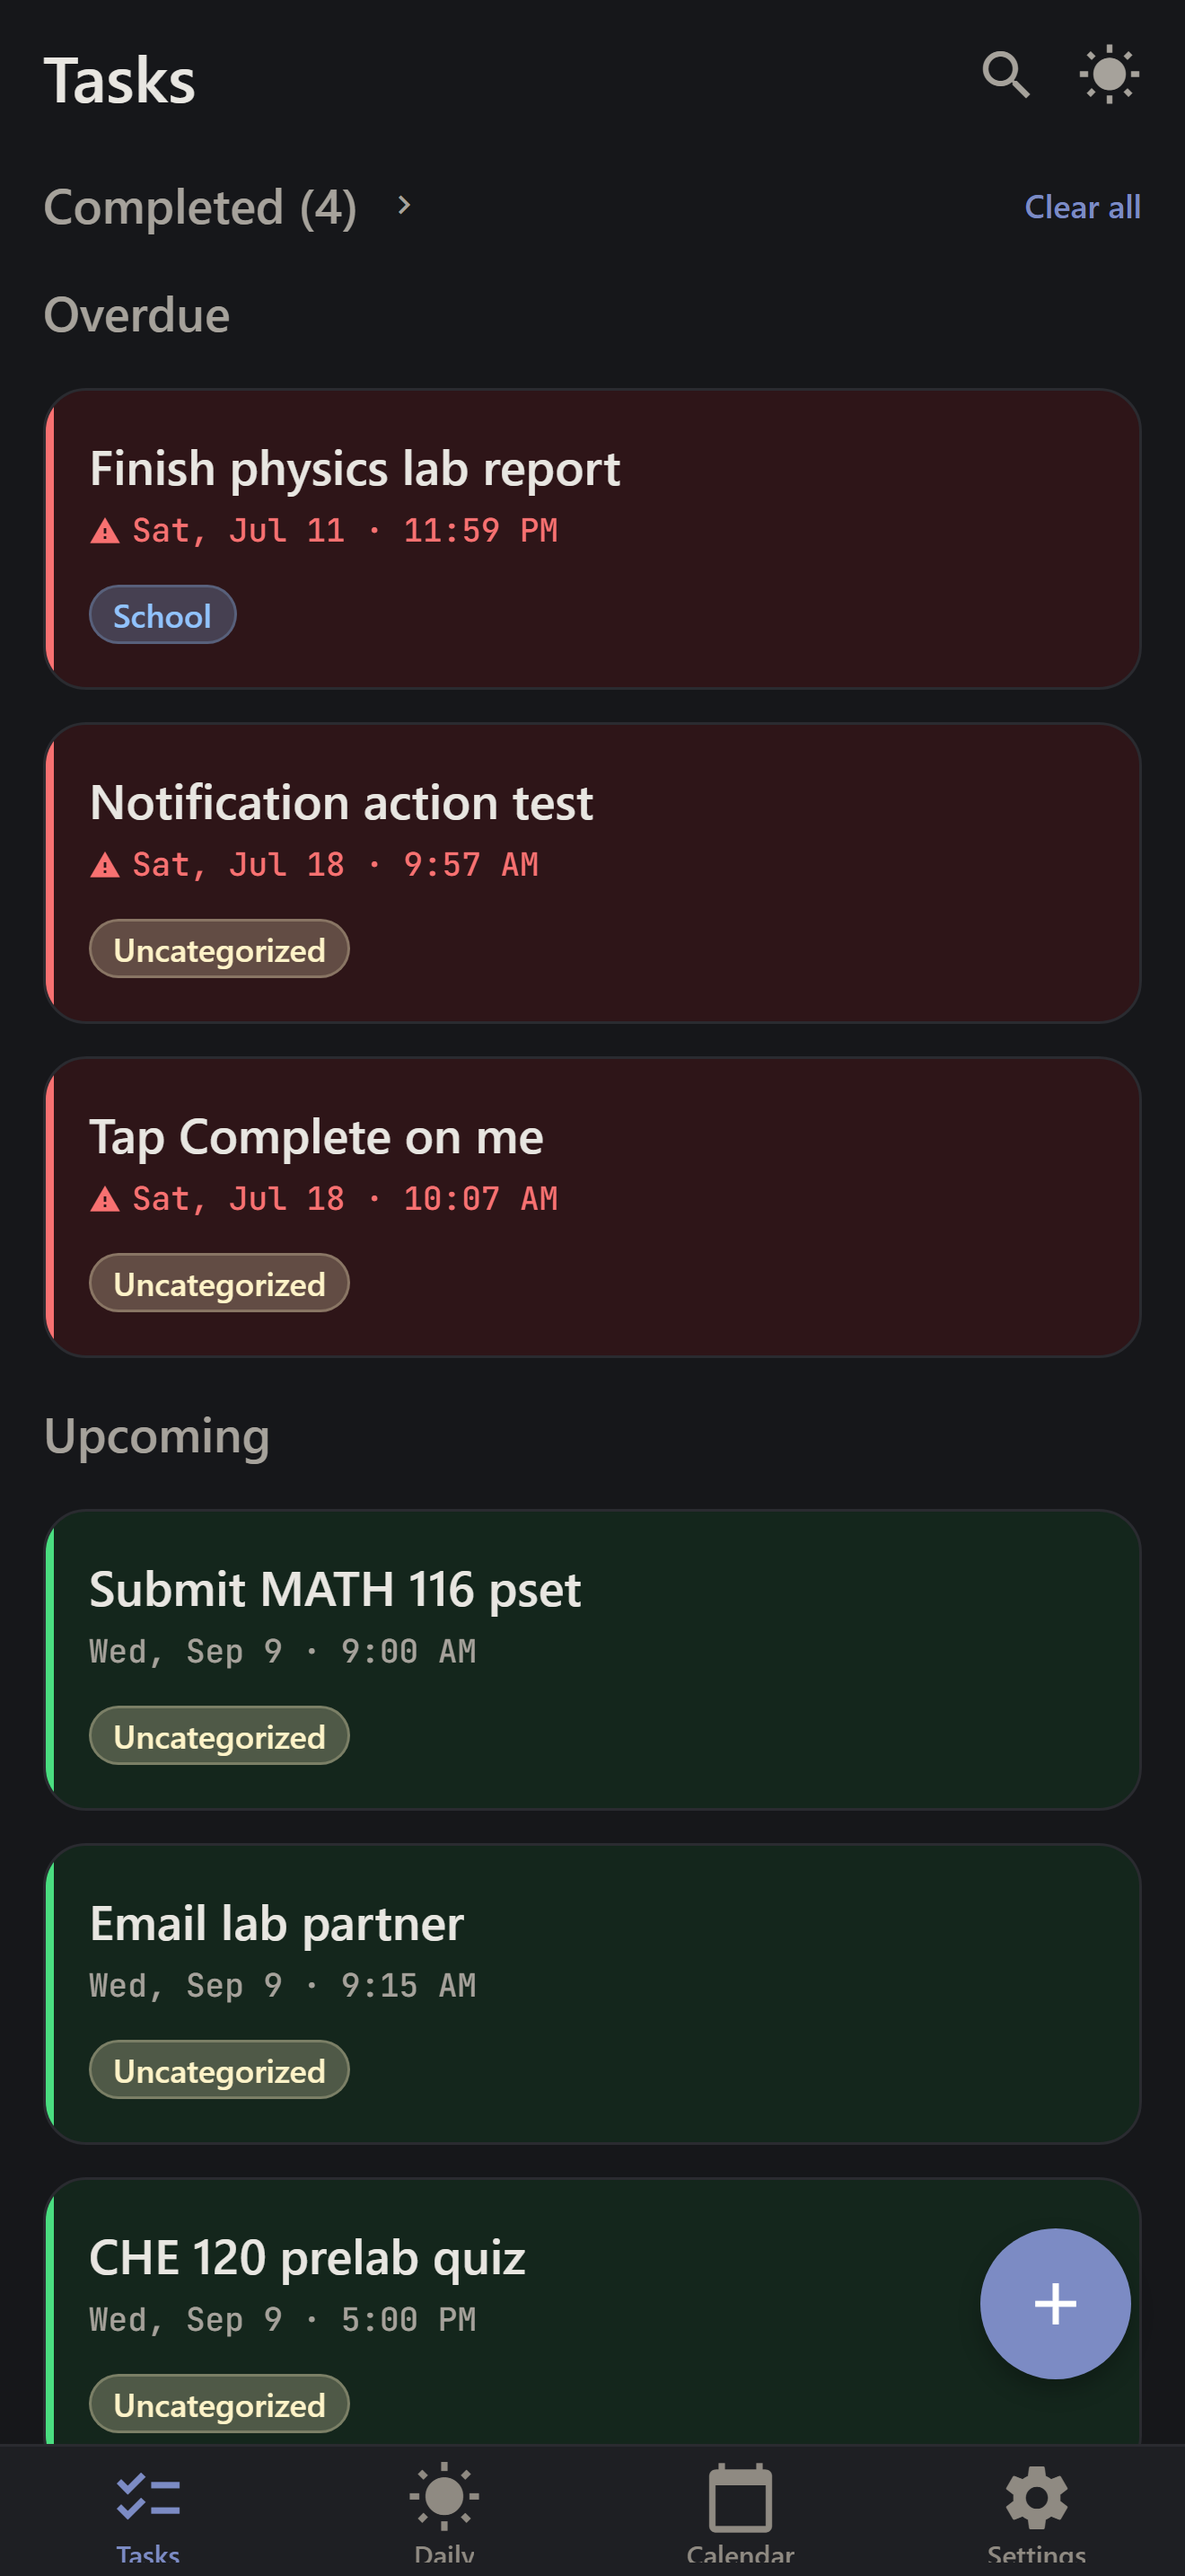
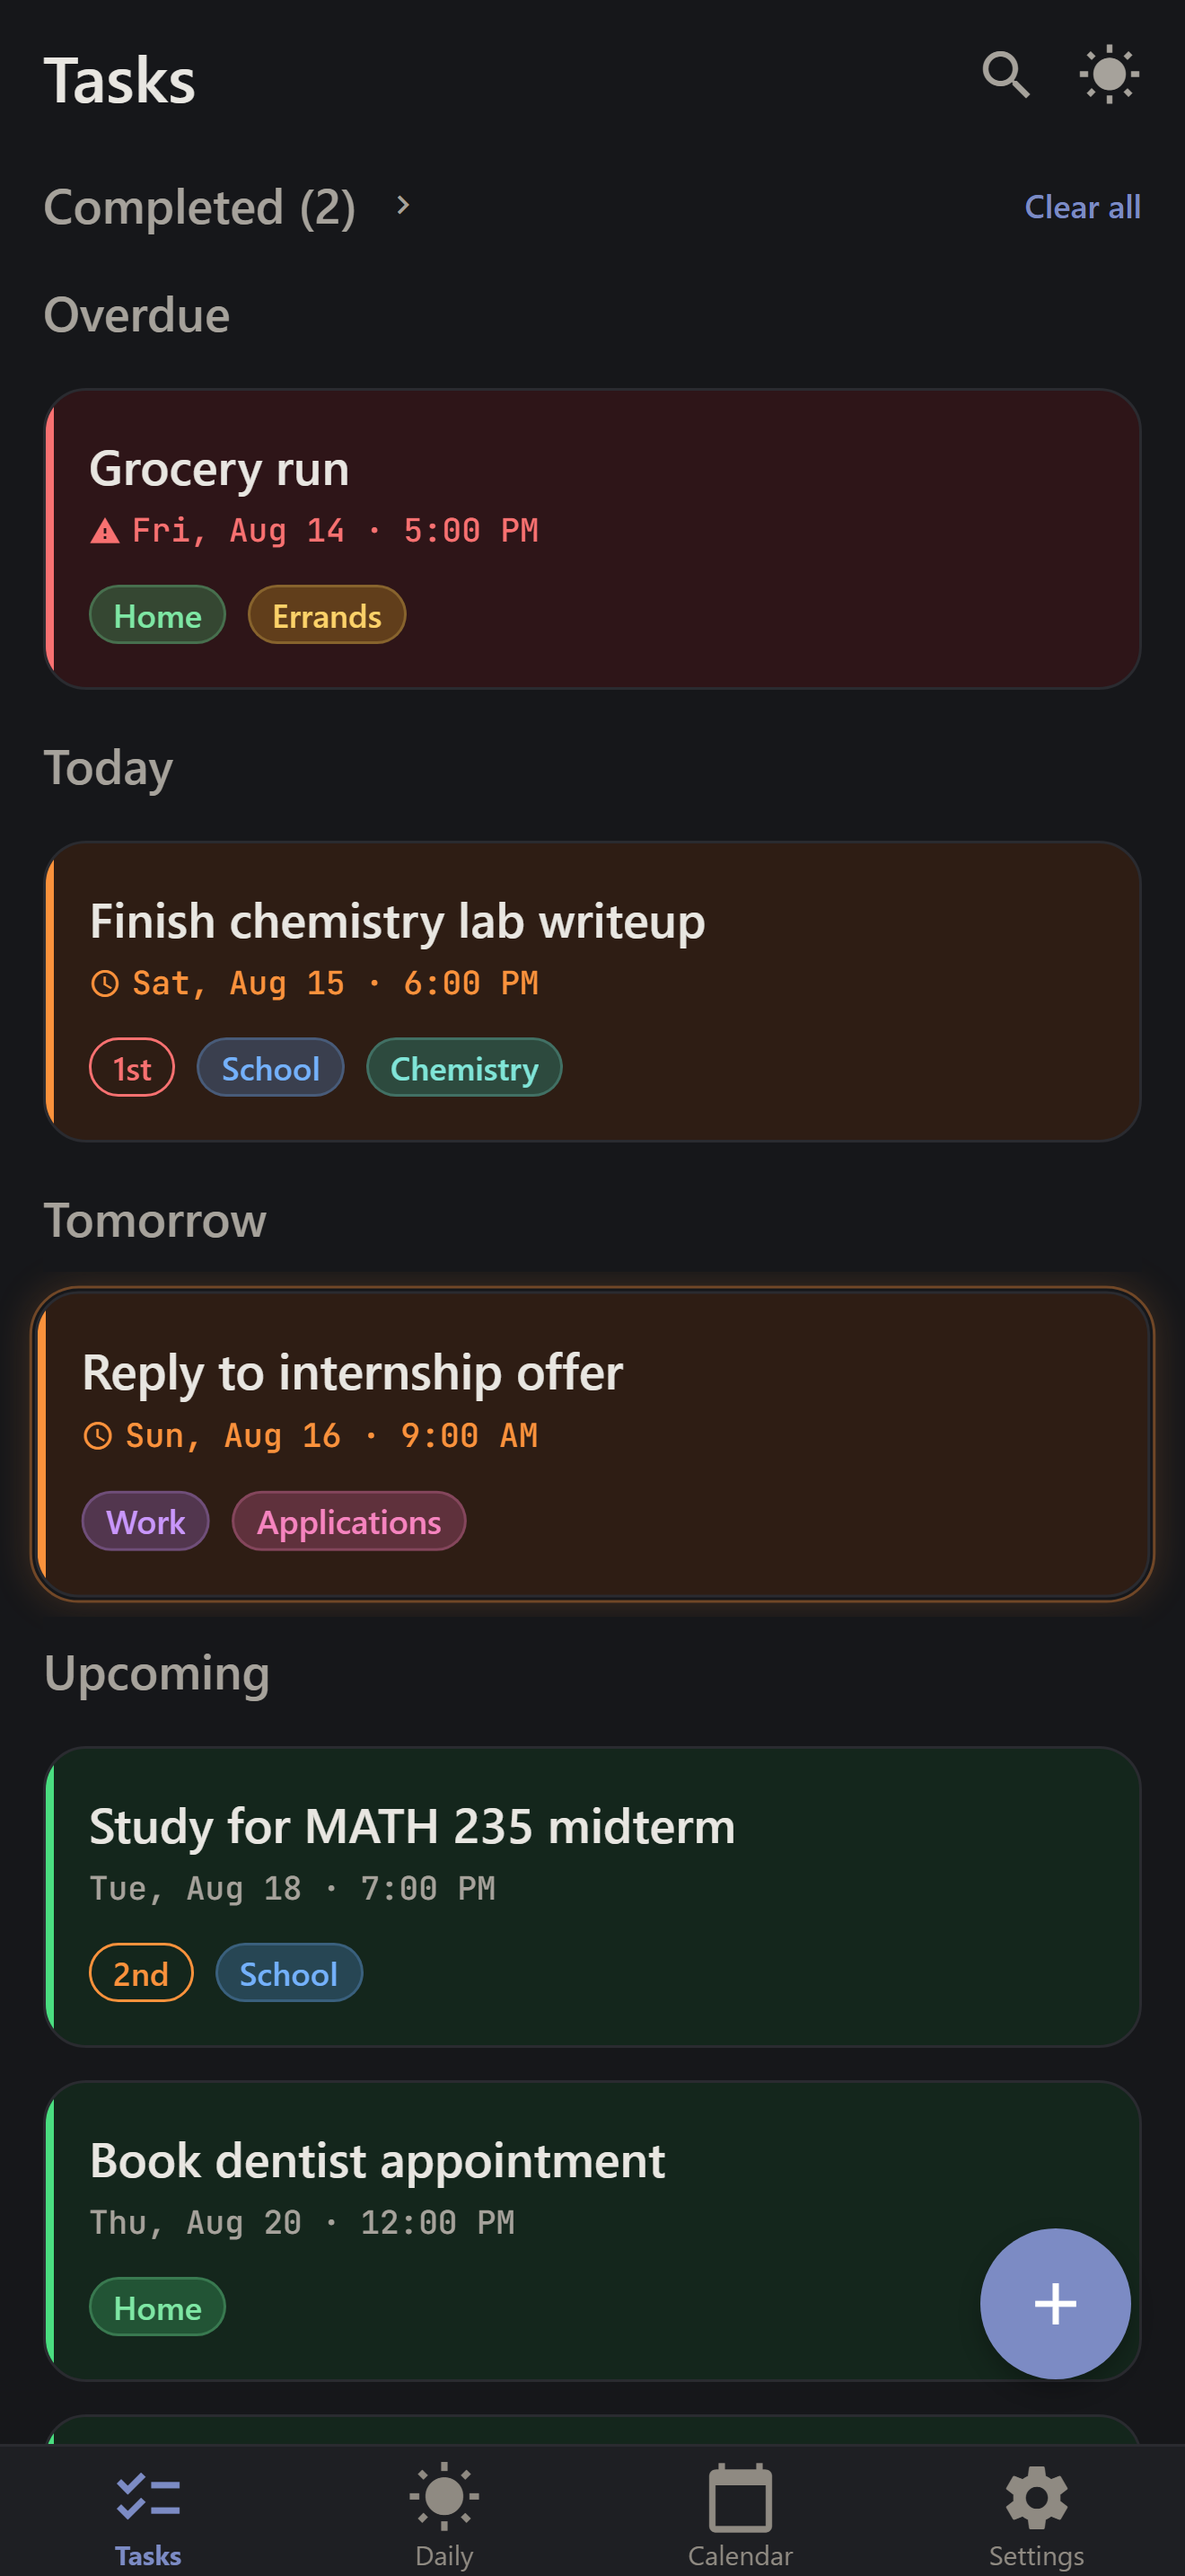
chore(store): screenshots re-shot on curated demo data + session log
Six 1320x2868 captures of the CURRENT UI (tour-era: underlined tabs,
week list replaces the old guide shot, full-day timeline) over freshly
seeded realistic demo data on the review account — mixed statuses with
the non-color cues visible, colored category/subject pills, priority
badges, three dailies. Seed script keeps the Sep demo events and adds
that week's tasks so the timeline and week-list shots stay rich.
CLAUDE.md: store-prep + tour sprint recorded; next-step decisions noted.

diff --git a/CLAUDE.md b/CLAUDE.md
@@ -60,6 +60,8 @@ This file gives Claude Code context at the start of every session. Keep it updat
 - **CSV import upgrades (2026-07-21, branch `feature/csv-import-tasks` off overnight/os-integration):** (1) the copyable AI prompt (`app/import-help.tsx`) is now instruction-first — you send it BEFORE your events; it acknowledges, you paste raw events, and it ASKS for any missing REQUIRED value (title/date) instead of guessing. (2) The import sheet gains an Events / Tasks / Pick-each selector so CSV rows can import as tasks (with due dates) instead of read-only events — a row is one or the other. `lib/events/to-task.ts` (pure `eventToNewTask`: all-day→11:59 PM due, timed→exact, notes+location→description; 6 tests), `useImportTasks` batch hook (mirrors useImportEvents), `lib/events/import-labels.ts` (count/plural strings; 10 tests), `confirmDialog` gained optional `cancelLabel`. If you press Import without touching the selector, a dialog offers the tasks path BEFORE any write. 143 tests. Web-verified: AI-prompt + intro copy render, zero console errors; the file-pick→import leg is unit-tested + typechecked and needs the on-device pass. (The web file-read failure later proved to be a REAL bug — fixed 2026-07-22, see the day-view/flow entry.) MERGED to main 2026-07-23.
 - **Widget upgrades + pre-merge review pass (2026-07-21/22, branches `fix/pill-delete-and-accent` → `feature/widget-events-uncomplete`):** pill delete (long-press a category/subject chip in the task form → confirm → clears it off the tasks that carry it; `useDeleteCategory`/`useDeleteSubject`); light accent swapped `#3D4A7A` → `#4954C7` (doc 03 updated); explicit Add button in the category/subject creator (Done-key-only silently lost names). Widgets: EVENTS render distinct (calendar glyph, event-blue, no check); the check button TOGGLES complete⇄un-complete (`{id,done}` queue, legacy int format tolerated); NEW `systemLarge` family (widgets can't scroll — bigger family is the answer); small-widget fallback when nothing's due today = upcoming-URGENT count → WEEK buckets ("This week"/"Next week"/"In N weeks") counting tasks AND events → all-clear check (circular never reads a bare "0 due" now). Pre-merge review of the whole 21-commit stack (self-review + CodeRabbit branch diff): fixed mixed-import duplicate-on-retry, widget snapshot upgrade-window decode tolerance (old snapshots lack events/done — LESSON: the tolerance edit itself broke the Xcode compile once, caught by the EAS build), stale `droppedCounter` after teardown, DST-unsafe 90-day calendar window. 148 tests; prod web export green. iOS builds: 6d1d85b5 green (pre-review); final green build 08e8e9d8 (commit 50a0ae3) contains ALL branch native code. MERGED to main 2026-07-23.
 - **Day-view timeline + flow/security wrap-up (2026-07-22/23, tail of feature/widget-events-uncomplete):** CSV import WEB file read fixed (picker File.text(); readAsStringAsync cannot read web blobs — web import had NEVER worked; verified with the developer 284-row schedule); day page = TIMELINE (tested piecewise engine lib/tasks/day-timeline.ts: wide = two panes with events-only timeline left + normal task cards right; phone = merged full-width lane, tasks share width with colliding events; gap compression built but OFF by developer pick — gapThresholdHours: Infinity); calendar light-mode bar text auto-darkened to 7:1 (readableTextColor minRatio param), phone dot counts (blue event count when 2+, explicit +N task overflow); FLOW fixes across all transparent routes — web exits 120-130ms on timers (page under a modal is INERT until pop, so exit time = blocked input), keyed self-pop via StackActions.pop(source) (plain back() killed a quickly-opened next sheet), pointerEvents none while dismissing; split-view panes stretch + per-pane exit fillers; SECRET /marketplace storefront template (placeholder packs, Views not fake buttons, preview-honest copy, linked from nowhere); docs 10 §4.10 + 11 synced with all new customizable surfaces. Security pass (self + CodeRabbit 0.7.0) on the tail slice: file-size guard hardened (web File.size), DayTimeline props discriminated by variant, timeline overdue rows carry the warning triangle. 163 tests. **ALL FIVE BRANCHES MERGED to main 2026-07-23 (fast-forward to defb20e); Render auto-deploys the site from main.**
+- **Store-prep + tour sprint (2026-08-11..15, all on main):** PowerSync outage root-caused (instance STOPPED Jul 28 in the dashboard; developer redeploy revived it — reconnect nudges shipped: foreground reconnectSync + tappable offline dot). **Interactive tour v5 SHIPPED and developer-approved on-phone**: 22 gated steps (guided task build inside the quick-add sheet incl. details/priority/category-vs-subject/notes/submit, delete->undo->complete on the tour's own task (id-tracked), Daily add+check, calendar year zoom out/in, real day visit, week+CSV, Settings); three overlay HOST instances (tabs/quick-add/day — native modals paint above root siblings) sharing context-lifted index; in-element self-drawn rings (zero scroll lag; ringPadX=0 inside the clipping form sheet); action dims are visual-only (scroll-through); keyboard-aware cards + cardPin ('when' pins top clear of the date picker); Keyboard.dismiss on step change (notes softlock); wrong-action failsafes (advanceOnAny); pathname-aware navigation (the create-freeze fix); measure-after-settle. Events emitted from real mutations incl. recurring + calendar mode switches; details-open re-announced (web starts expanded — and emits inside React state updaters get DROPPED, lesson). **Siri WORKS on-phone** (plugins/with-siri-intents.js compiles intents into the app target — pod-compiled App Shortcuts produce no metadata, Siri said "install the app"); form close() one-shot guard killed the POP warning. **Day timeline: full-day axis** (fullDay sentinels, 12AM->12AM) with 3h+ empty runs compressed to "N hr" bands, busy areas true-scale. Tab EDGE-swipe navigation + active-tab underline; quick-add autofocus deferred past sheet entrance (keyboard-first race); calendar transformOrigin NaN-proofed ("exactly 3 values" crash); tour-v4.js E2E = the 22-step benchmark. LESSON (repeated): never route \$-containing JS through bash heredocs/node -e; CRLF breaks node string replace — use the Edit tool.
+- **NEXT (store path): developer decisions = iPad (supportsTablet off for v1 recommended) + TestFlight go. Me = fresh screenshots, listing copy, demo-account seeding, production build, eas submit.**
 - **Release decisions (2026-07-26):** iOS App Store FIRST; **Google Play deferred to v2** (no Play account/feature graphic/data-safety work now — the Android APK still builds for the developer's own emulator/testing). Release comes after Phase 4 (multiplatform practical phases); style packs + marketplace stay post-release.
 - **After Stage 3:** deep OS integration (device calendar, widgets incl. lock-screen, Siri) → **multiplatform per docs/design/08** (iPad → Android polish+widgets → desktop via Tauri → web replaces Vaadin → Apple Watch) → polish/ship (Stage 5) → style packs + marketplace per docs/design/09 (very end).
 
